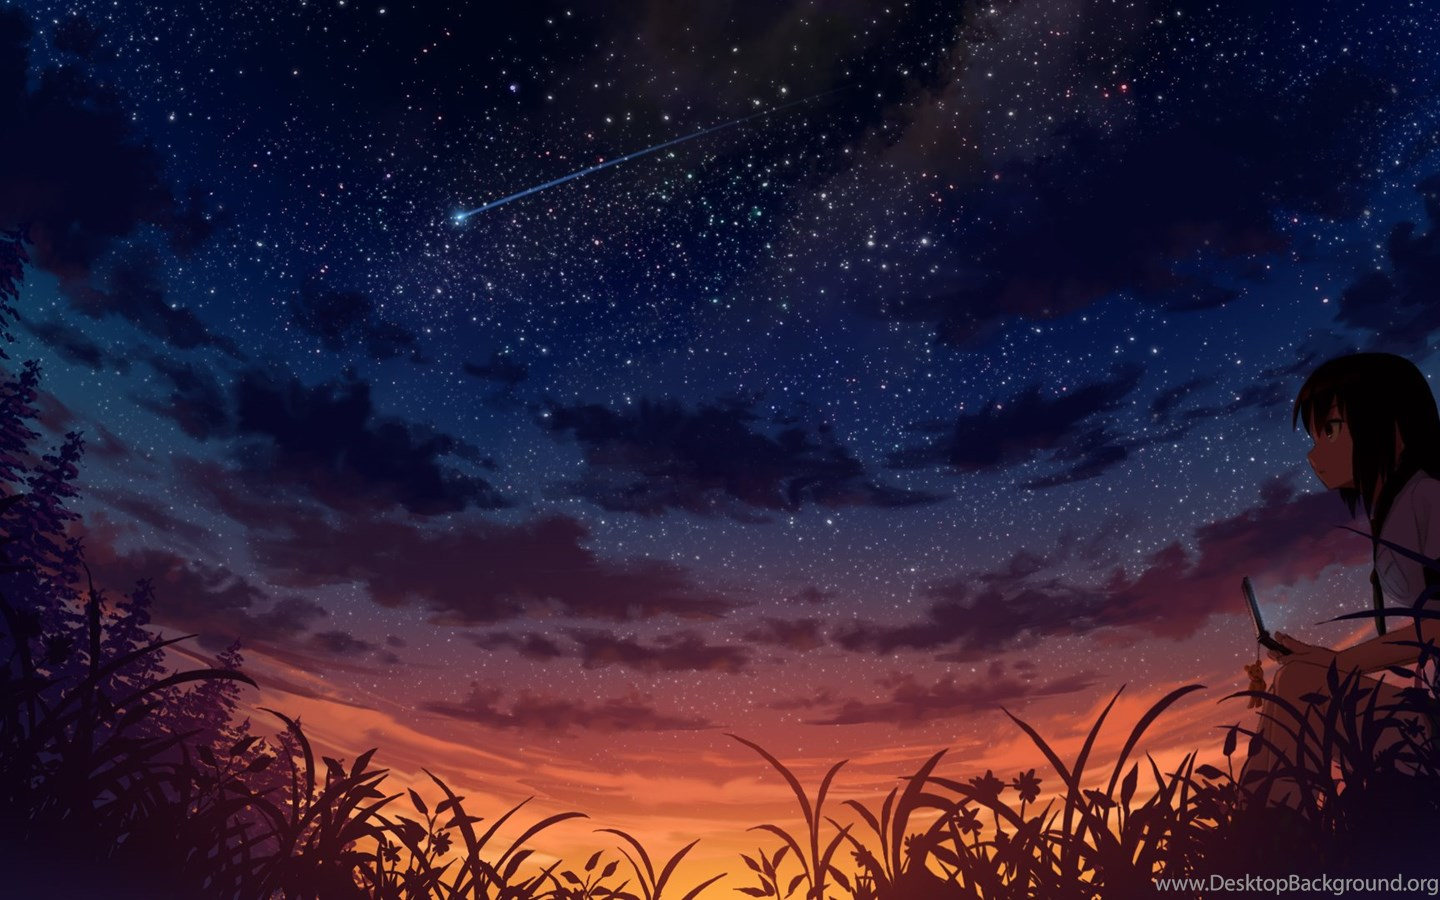
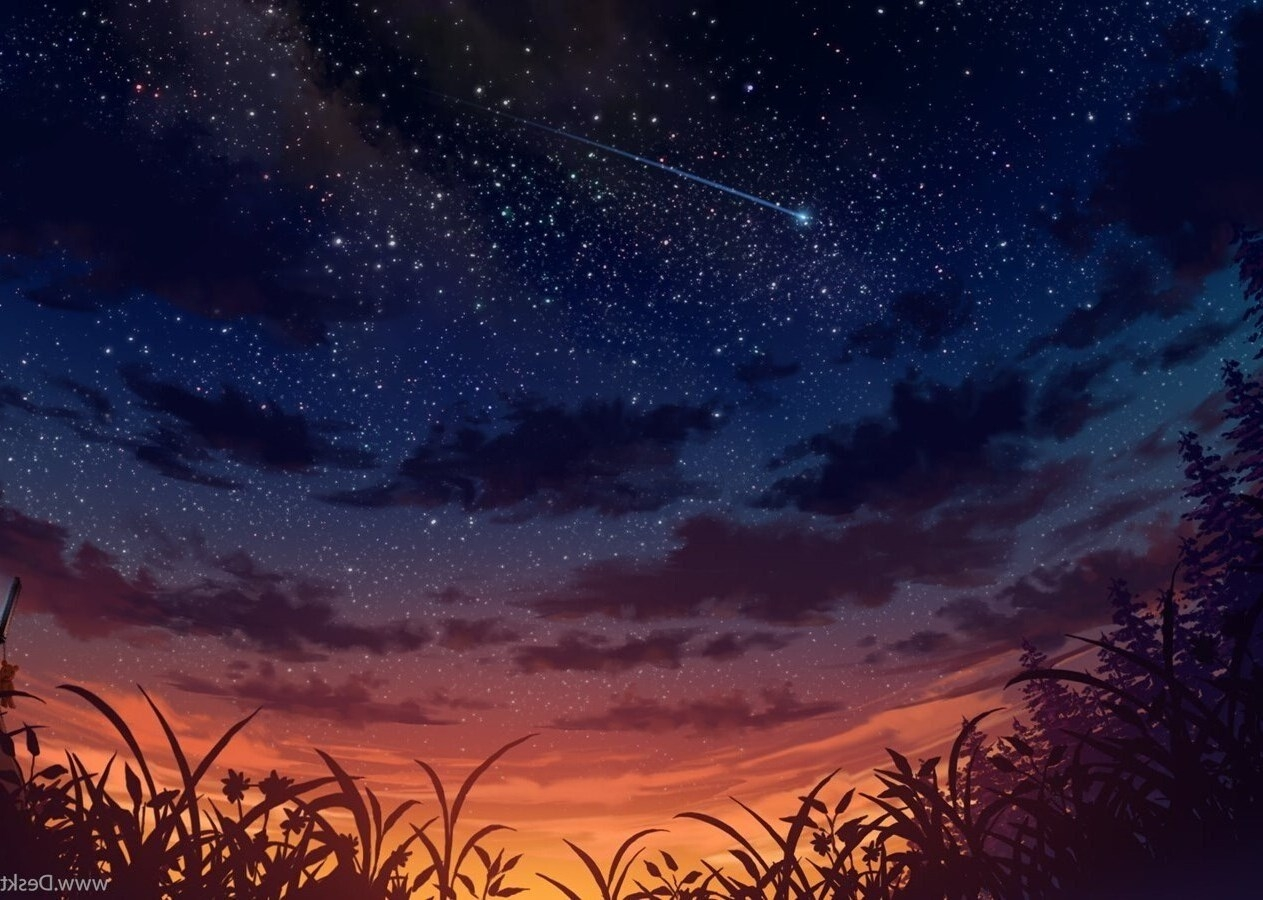
changed a background and updated readme.md
changed a background and updated readme.md

diff --git a/README.md b/README.md
@@ -1,3 +1,4 @@
 # java_project
 
-GAME OF AVENGERS
+GAME OF AVENGERS  \
+A desktop game built using JavaFX and some other tools. 
